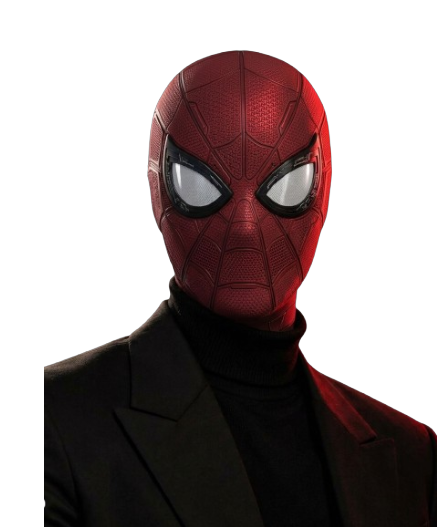
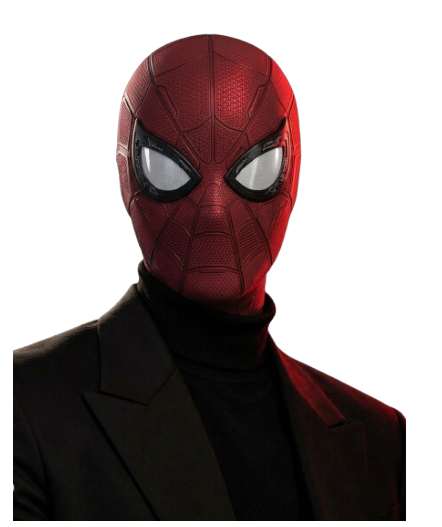
feat: pure floating cutout portrait without card background and pixel-perfect eye/chin mask alignment

Changed region(s): [[0.0294, 0.0607, 1.0, 1.0]]

diff --git a/src/components/AboutMe/ProfilePhoto.jsx b/src/components/AboutMe/ProfilePhoto.jsx
@@ -1,6 +1,7 @@
 'use client'
 
 import { useState, useRef, useCallback } from 'react'
+import { motion } from 'framer-motion'
 
 export default function ProfilePhoto({
   maskSrc = '/profile-spiderman.png',
@@ -9,11 +10,11 @@ export default function ProfilePhoto({
 }) {
   const [isHovered, setIsHovered] = useState(false)
   const [activeMode, setActiveMode] = useState('spotlight') // 'spotlight' (lingkaran kursor) | 'full-mask' | 'face-only'
-  const [pos, setPos] = useState({ x: 221, y: 230 }) // default posisi di area wajah
-  const [tilt, setTilt] = useState({ rotateX: 0, rotateY: 0, glareX: 50, glareY: 50 })
+  const [pos, setPos] = useState({ x: 221, y: 190 }) // default posisi di area mata/wajah
+  const [tilt, setTilt] = useState({ rotateX: 0, rotateY: 0 })
   const cardRef = useRef(null)
 
-  // Update posisi kursor untuk lingkaran spotlight & 3D tilt
+  // Update posisi kursor untuk lingkaran spotlight & 3D tilt lembut
   const updatePointer = useCallback((clientX, clientY) => {
     const card = cardRef.current
     if (!card) return
@@ -23,13 +24,11 @@ export default function ProfilePhoto({
 
     const centerX = rect.width / 2
     const centerY = rect.height / 2
-    const rotateX = -((y - centerY) / centerY) * 7
-    const rotateY = ((x - centerX) / centerX) * 7
-    const glareX = (x / rect.width) * 100
-    const glareY = (y / rect.height) * 100
+    const rotateX = -((y - centerY) / centerY) * 6
+    const rotateY = ((x - centerX) / centerX) * 6
 
     setPos({ x, y })
-    setTilt({ rotateX, rotateY, glareX, glareY })
+    setTilt({ rotateX, rotateY })
   }, [])
 
   const handleMouseMove = (e) => {
@@ -46,12 +45,12 @@ export default function ProfilePhoto({
 
   const handleMouseLeave = () => {
     setIsHovered(false)
-    setTilt({ rotateX: 0, rotateY: 0, glareX: 50, glareY: 50 })
+    setTilt({ rotateX: 0, rotateY: 0 })
   }
 
   // Radial mask gradient untuk lingkaran spotlight lembut di sekitar kursor
-  // Radius lingkaran 135px dengan feathering halus dari 0% ke 100%
-  const spotlightMask = `radial-gradient(circle 135px at ${pos.x}px ${pos.y}px, rgba(0, 0, 0, 0.85) 0%, rgba(0, 0, 0, 0.45) 50%, rgba(0, 0, 0, 0) 100%)`
+  // Radius 130px dengan feathering transisi lembut (0% ke 100%)
+  const spotlightMask = `radial-gradient(circle 130px at ${pos.x}px ${pos.y}px, rgba(0, 0, 0, 0.9) 0%, rgba(0, 0, 0, 0.5) 45%, rgba(0, 0, 0, 0) 100%)`
 
   const maskImageStyle =
     activeMode === 'full-mask'
@@ -64,11 +63,29 @@ export default function ProfilePhoto({
     activeMode === 'full-mask' || (activeMode === 'spotlight' && isHovered)
 
   return (
-    <div className="flex flex-col items-center w-full max-w-[460px] mx-auto select-none">
-      {/* Outer 3D Perspective Card Container */}
-      <div
+    <div className="flex flex-col items-center w-full max-w-[440px] mx-auto select-none relative">
+      {/* Floating Ambient Halo Lighting di Belakang Siluet Mengambang */}
+      <div className="absolute inset-0 pointer-events-none -z-10 flex items-center justify-center">
+        {/* Soft Blue Center Backlight */}
+        <div className="w-72 h-72 rounded-full bg-primary/20 blur-3xl" />
+        {/* Soft Red Rim Light (Sesuai rim light merah di foto) */}
+        <div
+          className={`absolute top-[10%] right-2 w-64 h-64 rounded-full blur-3xl transition-opacity duration-700 ${
+            isMaskVisible ? 'bg-red-600/35 opacity-100' : 'bg-red-600/15 opacity-60'
+          }`}
+        />
+      </div>
+
+      {/* Floating Animated Motion Wrapper ("Biarkan Dia Mengambang") */}
+      <motion.div
+        animate={{ y: [-6, 8, -6] }}
+        transition={{
+          repeat: Infinity,
+          duration: 5,
+          ease: 'easeInOut',
+        }}
         ref={cardRef}
-        style={{ perspective: '1200px' }}
+        style={{ perspective: '1100px' }}
         onMouseMove={handleMouseMove}
         onMouseEnter={() => setIsHovered(true)}
         onMouseLeave={handleMouseLeave}
@@ -77,44 +94,28 @@ export default function ProfilePhoto({
         onTouchEnd={() => setIsHovered(false)}
         className="w-full cursor-crosshair group relative"
       >
+        {/* 3D Tilt Wrapper - TANPA Background Kotak (Pure Floating Cutout) */}
         <div
           style={{
             transform: `rotateX(${tilt.rotateX}deg) rotateY(${tilt.rotateY}deg)`,
             transformStyle: 'preserve-3d',
-            transition: 'transform 0.15s ease-out, box-shadow 0.4s ease',
+            transition: 'transform 0.12s ease-out',
           }}
-          className={`relative w-full aspect-[442/527] rounded-3xl overflow-hidden bg-gradient-to-b from-[#141824] via-[#0d101a] to-[#07080e] border transition-all duration-500 shadow-[0_25px_60px_rgba(0,0,0,0.85)] ${
-            isMaskVisible
-              ? 'border-red-500/40 shadow-[0_0_45px_rgba(220,38,38,0.3)] ring-1 ring-red-500/20'
-              : 'border-white/[0.12] hover:border-primary/50 hover:shadow-[0_0_40px_rgba(44,103,237,0.25)]'
-          }`}
+          className="relative w-full aspect-[442/527]"
         >
-          {/* Studio Ambient Backlight (Sesuai rim light merah foto asli) */}
-          <div className="absolute inset-0 pointer-events-none z-0">
-            {/* Center Blue Ambient Halo */}
-            <div className="absolute top-[20%] left-1/2 -translate-x-1/2 w-72 h-72 rounded-full bg-primary/20 blur-3xl pointer-events-none" />
-            {/* Right Rim Light Red Glow */}
-            <div className="absolute top-[15%] right-0 w-64 h-64 rounded-full bg-red-600/25 blur-3xl pointer-events-none" />
-            {/* Cybernetic Subtle Hex Grid */}
-            <div className="absolute inset-0 bg-[radial-gradient(#2c67ed_1px,transparent_1px)] [background-size:24px_24px] opacity-15 pointer-events-none" />
-          </div>
-
-          {/* Dynamic Light Sheen Mengikuti Kursor */}
-          <div
-            className="absolute inset-0 pointer-events-none opacity-0 group-hover:opacity-100 transition-opacity duration-300 z-30"
-            style={{
-              background: `radial-gradient(circle at ${tilt.glareX}% ${tilt.glareY}%, rgba(255,255,255,0.06) 0%, transparent 60%)`,
-            }}
-          />
-
-          {/* LAYER 1 (DASAR): Gambar Wajah Asli Transparan (Background Sudah Dihapus) */}
+          {/* LAYER 1 (DASAR): Wajah Asli Transparan Mengambang */}
           <img
             src={faceSrc}
             alt={alt}
-            className="absolute inset-0 w-full h-full object-contain object-bottom transition-transform duration-700 ease-out group-hover:scale-[1.02] z-10 pointer-events-none"
+            className="absolute inset-0 w-full h-full object-contain object-bottom pointer-events-none z-10 transition-transform duration-500 group-hover:scale-[1.02]"
+            style={{
+              filter: isMaskVisible
+                ? 'drop-shadow(0 25px 35px rgba(0, 0, 0, 0.85)) drop-shadow(0 0 35px rgba(239, 68, 68, 0.25))'
+                : 'drop-shadow(0 25px 35px rgba(0, 0, 0, 0.85)) drop-shadow(0 0 35px rgba(44, 103, 237, 0.25))',
+            }}
           />
 
-          {/* LAYER 2 (DITUMPUK DI ATAS): Topeng Spider-Man Transparan yang Muncul Lembut HANYA di Lingkaran Kursor */}
+          {/* LAYER 2 (DITUMPUK DI ATAS): Topeng Spider-Man Transparan Pas di Wajah & Muncul Lembut HANYA di Lingkaran Kursor */}
           <div
             style={{
               maskImage: maskImageStyle,
@@ -129,134 +130,80 @@ export default function ProfilePhoto({
                   : 0,
               transition: isHovered
                 ? 'opacity 0.25s ease-out'
-                : 'opacity 0.5s ease-out',
+                : 'opacity 0.45s ease-out',
             }}
             className="absolute inset-0 w-full h-full pointer-events-none z-20"
           >
             <img
               src={maskSrc}
-              alt="Topeng Spider-Man Transparan Elga Alfareza"
-              className="w-full h-full object-contain object-bottom transition-transform duration-700 ease-out group-hover:scale-[1.02]"
+              alt="Topeng Spider-Man Pas di Wajah Elga Alfareza"
+              className="w-full h-full object-contain object-bottom transition-transform duration-500 group-hover:scale-[1.02]"
+              style={{
+                filter: 'drop-shadow(0 25px 35px rgba(0, 0, 0, 0.85)) drop-shadow(0 0 35px rgba(239, 68, 68, 0.35))',
+              }}
             />
-
-            {/* Glowing Red Spider Holographic Shimmer Overlay */}
-            <div className="absolute inset-0 bg-gradient-to-t from-red-950/30 via-transparent to-red-900/10 mix-blend-color-dodge opacity-60 pointer-events-none" />
           </div>
 
-          {/* RETICLE LINGKARAN KURSOR SPIDER-SENSE LEMBUT */}
+          {/* RETICLE LINGKARAN SPOTLIGHT KURSOR LEMBUT */}
           {isHovered && activeMode === 'spotlight' && (
             <div
-              className="absolute pointer-events-none rounded-full border border-red-500/30 z-30 transition-transform duration-75"
+              className="absolute pointer-events-none rounded-full border border-red-500/40 z-30 transition-transform duration-75"
               style={{
-                width: '270px',
-                height: '270px',
+                width: '260px',
+                height: '260px',
                 left: `${pos.x}px`,
                 top: `${pos.y}px`,
                 transform: 'translate(-50%, -50%)',
                 background:
-                  'radial-gradient(circle, rgba(239, 68, 68, 0.08) 0%, rgba(239, 68, 68, 0.02) 55%, transparent 100%)',
-                boxShadow: '0 0 30px rgba(239, 68, 68, 0.2)',
+                  'radial-gradient(circle, rgba(239, 68, 68, 0.1) 0%, rgba(239, 68, 68, 0.02) 55%, transparent 100%)',
+                boxShadow: '0 0 30px rgba(239, 68, 68, 0.25)',
               }}
             >
-              {/* Subtle Targeting Reticle Crosshairs */}
-              <div className="absolute top-0 left-1/2 -translate-x-1/2 w-1.5 h-1.5 bg-red-400/50 rounded-full" />
-              <div className="absolute bottom-0 left-1/2 -translate-x-1/2 w-1.5 h-1.5 bg-red-400/50 rounded-full" />
-              <div className="absolute left-0 top-1/2 -translate-y-1/2 w-1.5 h-1.5 bg-red-400/50 rounded-full" />
-              <div className="absolute right-0 top-1/2 -translate-y-1/2 w-1.5 h-1.5 bg-red-400/50 rounded-full" />
-              <div className="absolute top-1/2 left-1/2 -translate-x-1/2 -translate-y-1/2 w-1.5 h-1.5 rounded-full bg-red-400/80 animate-ping" />
+              {/* Center Crosshair Glow Reticle */}
+              <div className="absolute top-0 left-1/2 -translate-x-1/2 w-1.5 h-1.5 bg-red-400/60 rounded-full" />
+              <div className="absolute bottom-0 left-1/2 -translate-x-1/2 w-1.5 h-1.5 bg-red-400/60 rounded-full" />
+              <div className="absolute left-0 top-1/2 -translate-y-1/2 w-1.5 h-1.5 bg-red-400/60 rounded-full" />
+              <div className="absolute right-0 top-1/2 -translate-y-1/2 w-1.5 h-1.5 bg-red-400/60 rounded-full" />
+              <div className="absolute top-1/2 left-1/2 -translate-x-1/2 -translate-y-1/2 w-2 h-2 rounded-full bg-red-400/90 animate-ping" />
             </div>
           )}
 
-          {/* Corner Cybernetic Brackets */}
+          {/* Floating Subtle HUD Tag at Upper Right */}
           <div
-            className="absolute top-4 left-4 w-4 h-4 border-t-2 border-l-2 pointer-events-none z-30 transition-colors duration-300"
-            style={{ borderColor: isMaskVisible ? '#ef4444' : '#2c67ed' }}
-          />
-          <div
-            className="absolute top-4 right-4 w-4 h-4 border-t-2 border-r-2 pointer-events-none z-30 transition-colors duration-300"
-            style={{ borderColor: isMaskVisible ? '#ef4444' : '#2c67ed' }}
-          />
-          <div
-            className="absolute bottom-4 left-4 w-4 h-4 border-b-2 border-l-2 pointer-events-none z-30 transition-colors duration-300"
-            style={{ borderColor: isMaskVisible ? '#ef4444' : '#2c67ed' }}
-          />
-          <div
-            className="absolute bottom-4 right-4 w-4 h-4 border-b-2 border-r-2 pointer-events-none z-30 transition-colors duration-300"
-            style={{ borderColor: isMaskVisible ? '#ef4444' : '#2c67ed' }}
-          />
-
-          {/* Top HUD Telemetry Bar */}
-          <div
-            style={{ transform: 'translateZ(30px)' }}
-            className="absolute top-4 inset-x-5 flex justify-between items-center font-label-mono text-[10px] pointer-events-none z-30 transition-all duration-300"
+            style={{ transform: 'translateZ(25px)' }}
+            className="absolute top-2 right-2 pointer-events-none z-30 font-label-mono text-[10px]"
           >
-            <span className="bg-surface-container-lowest/85 backdrop-blur-md px-3 py-1 rounded-full border border-white/[0.1] text-on-surface shadow-sm flex items-center gap-1.5">
-              <span className="w-2 h-2 rounded-full bg-primary animate-pulse" />
-              IDENTITAS // ELGA ALFAREZA, S.Kom.
-            </span>
-
             <span
-              className={`backdrop-blur-md px-3 py-1 rounded-full border transition-all duration-300 flex items-center gap-1.5 shadow-sm ${
+              className={`px-3 py-1 rounded-full border backdrop-blur-md transition-all duration-300 flex items-center gap-1.5 shadow-lg ${
                 isMaskVisible
-                  ? 'bg-red-950/85 text-red-300 border-red-500/40 shadow-[0_0_12px_rgba(239,68,68,0.4)] animate-pulse'
-                  : 'bg-surface-container-lowest/85 text-secondary border-secondary/20'
+                  ? 'bg-red-950/85 text-red-300 border-red-500/50 shadow-[0_0_15px_rgba(239,68,68,0.4)] animate-pulse'
+                  : 'bg-surface-container-lowest/80 text-secondary border-white/[0.08]'
               }`}
             >
               <span className="material-symbols-outlined text-[13px]">
                 {isMaskVisible ? 'sensors' : 'fingerprint'}
               </span>
-              SPIDER_SENSE: {isMaskVisible ? 'FOKUS KURSOR AKTIF' : 'STANDBY'}
+              <span>{isMaskVisible ? 'SPIDER-SENSE AKTIF' : 'IDENTITAS ASLI'}</span>
             </span>
           </div>
-
-          {/* Bottom Glass HUD Overlay */}
-          <div
-            style={{ transform: 'translateZ(40px)' }}
-            className="absolute bottom-4 inset-x-5 p-space-sm sm:p-space-md rounded-2xl bg-surface-container-lowest/90 backdrop-blur-xl border border-white/[0.1] flex items-center justify-between pointer-events-none z-30 shadow-2xl transition-all duration-300"
-          >
-            <div>
-              <div className="flex items-center gap-2 mb-0.5">
-                <span className="text-[10px] font-label-mono px-2 py-0.5 rounded bg-surface-container text-primary font-semibold border border-white/[0.04]">
-                  {activeMode === 'spotlight'
-                    ? isHovered
-                      ? 'SPOTLIGHT // LINGKARAN KURSOR'
-                      : 'STANDBY // ARAHKAN KURSOR'
-                    : activeMode === 'full-mask'
-                    ? 'PENUH // 100% TOPENG'
-                    : 'ASLI // 100% WAJAH'}
-                </span>
-                <span
-                  className={`font-label-mono text-label-sm font-bold transition-colors duration-300 ${
-                    isMaskVisible ? 'text-red-400' : 'text-secondary'
-                  }`}
-                >
-                  {isMaskVisible ? 'SPIDER-MAN REVEAL' : 'IDENTITAS RESMI'}
-                </span>
-              </div>
-              <p className="font-body-sm text-xs text-on-surface-variant">
-                {isHovered && activeMode === 'spotlight'
-                  ? 'Topeng terlihat lembut di lingkaran sekitar kursor'
-                  : 'Gerakkan kursor ke foto untuk melihat topeng di sekitar kursor'}
-              </p>
-            </div>
-
-            <div
-              className={`w-9 h-9 rounded-xl flex items-center justify-center border shadow-md transition-all duration-300 shrink-0 ${
-                isMaskVisible
-                  ? 'bg-red-900/40 border-red-500/50 text-red-400 shadow-[0_0_15px_rgba(239,68,68,0.5)]'
-                  : 'bg-surface-container border-white/[0.06] text-primary'
-              }`}
-            >
-              <span className="material-symbols-outlined text-[20px]">
-                {isMaskVisible ? 'radar' : 'visibility'}
-              </span>
-            </div>
-          </div>
         </div>
+      </motion.div>
+
+      {/* Soft Ground Reflection Shadow (Memperkuat Kesan Melayang/Mengambang) */}
+      <div className="w-48 sm:w-56 h-3 rounded-[100%] bg-black/60 blur-md -mt-3 mb-4 pointer-events-none -z-10" />
+
+      {/* Floating Status Pill */}
+      <div className="flex items-center gap-2 mb-3 font-label-mono text-xs text-on-surface-variant">
+        <span className="w-2 h-2 rounded-full bg-secondary animate-pulse" />
+        <span>
+          {isHovered && activeMode === 'spotlight'
+            ? 'Topeng terlihat lembut di lingkaran sekitar kursor'
+            : 'Arahkan kursor ke tubuh/wajah untuk memunculkan topeng lembut'}
+        </span>
       </div>
 
       {/* Interactive Mode Control Buttons */}
-      <div className="flex flex-wrap items-center justify-center gap-2 mt-4 font-label-mono text-xs z-20">
+      <div className="flex flex-wrap items-center justify-center gap-2 font-label-mono text-xs z-20">
         <button
           onClick={() => setActiveMode('spotlight')}
           className={`px-3.5 py-1.5 rounded-full border transition-all flex items-center gap-1.5 shadow-sm ${
@@ -266,7 +213,7 @@ export default function ProfilePhoto({
           }`}
         >
           <span className="material-symbols-outlined text-[15px]">radar</span>
-          <span>Lingkaran Kursor (Lembut)</span>
+          <span>Lingkaran Kursor (Spotlight)</span>
         </button>
 
         <button
